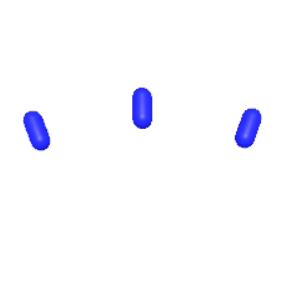
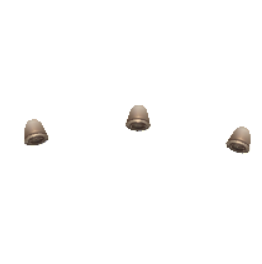
Updated shop images to show new bullet models. Also made rapid fire modifier work as intended.

Changed region(s): [[0.7939, 0.3636, 0.9771, 0.6061], [0.458, 0.303, 0.5802, 0.5152], [0.0611, 0.3636, 0.1832, 0.5758]]

diff --git a/Assets/Scripts/PlayerControls.cs b/Assets/Scripts/PlayerControls.cs
@@ -279,8 +279,8 @@ public class PlayerControls : Shooter {
     public void CollectModifier(int type) {
         bullet = bulletModifiers[type];
 
-        if (type == 4) {
-            fireDelay = 0.05f;
+        if (type == 3) {
+            fireDelay = 0.025f;
         } else {
             fireDelay = 0.1f;
         }
